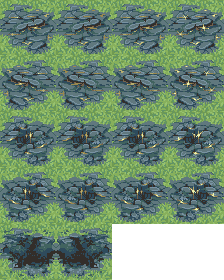
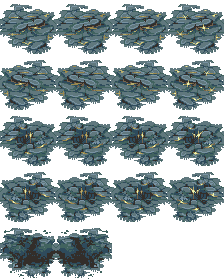
Updated Textures & Added Tiles

diff --git a/engine/resources/texture/texture.js b/engine/resources/texture/texture.js
@@ -7,6 +7,8 @@ export const Texture = function(id, name, path) {
     this.path = path;
     this.width = 0;
     this.height = 0;
+    this.gridWidth = 0;
+    this.gridHeight = 0;
     this.handle = new TextureHandle();
     this.variants = new Map();
     this.regionMap = new Map();
@@ -116,34 +118,51 @@ Texture.prototype.createHandle = function(handleID) {
     return nextHandle;
 }
 
-Texture.prototype.initGrid = function(grid, width, height) {
+Texture.prototype.initGrid = function(grid, gridWidth, gridHeight) {
     for(const regionID in grid) {
-        const { u, v } = grid[regionID];
-        const region = new TextureRegion(u * width, v * height, width, height);
+        const { u = 0, v = 0, h = 0 } = grid[regionID];
+        let regionX = u * gridWidth;
+        let regionY = v * gridHeight;
+        let regionHeight = gridHeight;
+        let offsetY = 0;
+
+        //Custom height. Move one cell down and subtract the height. 
+        if(h !== 0) {
+            regionY += gridHeight - h;
+            regionHeight = h;
+            offsetY = gridHeight - h;
+        }
+
+        const region = new TextureRegion(regionX, regionY, gridWidth, regionHeight);
+
+        region.offsetX = 0;
+        region.offsetY = offsetY;
 
         this.regions.push(region);
         this.regionMap.set(regionID, this.regions.length - 1);
     }
 }
 
-Texture.prototype.initRegions = function(regions) {
+Texture.prototype.initRegions = function(regions, gridWidth, gridHeight) {
     for(const regionID in regions) {
-        const { x = 0, y = 0, w = 0, h = 0 } = regions[regionID];
-        const region = new TextureRegion(x, y, w, h);
-
-        this.regions.push(region);
-        this.regionMap.set(regionID, this.regions.length - 1);
+        if(!this.regionMap.has(regionID)) {
+            const { x = 0, y = 0, w = 0, h = 0 } = regions[regionID];
+            const region = new TextureRegion(x, y, w, h);
+    
+            this.regions.push(region);
+            this.regionMap.set(regionID, this.regions.length - 1);
+        }
     }
 }
 
-Texture.prototype.autoGrid = function(startX, startY, rows, columns, firstID, width, height) {
+Texture.prototype.autoGrid = function(startX, startY, rows, columns, firstID, gridWidth, gridHeight) {
     let id = firstID;
 
     for(let i = 0; i < rows; i++) {
         for(let j = 0; j < columns; j++) {
-            const regionX = startX + j * width;
-            const regionY = startY + i * height;
-            const region = new TextureRegion(regionX, regionY, width, height);
+            const regionX = startX + j * gridWidth;
+            const regionY = startY + i * gridHeight;
+            const region = new TextureRegion(regionX, regionY, gridWidth, gridHeight);
             const regionID = (id++) + "";
 
             this.regions.push(region);

diff --git a/engine/tile/visual.js b/engine/tile/visual.js
@@ -69,23 +69,21 @@ TileVisual.prototype.pushElement = function(fp, x, y, w, h, ox, oy) {
     return next_frame_ptr;
 }
 
-TileVisual.prototype.createFrame = function(fp, region, offset) {
-    const { x, y, w, h } = region;
-    const offsetX = offset?.x ?? 0;
-    const offsetY = offset?.y ?? 0;
+TileVisual.prototype.createFrame = function(fp, region) {
+    const { x, y, w, h, offsetX, offsetY } = region;
     const next_frame_ptr = this.pushElement(fp, x, y, w, h, offsetX, offsetY);
 
     return next_frame_ptr;
 }
 
-TileVisual.prototype.createPattern = function(fp, texture, pattern, offsets) {
+TileVisual.prototype.createPattern = function(fp, texture, pattern) {
     let next_frame_ptr = fp;
 
     for(const { id, shiftX = 0, shiftY = 0 } of pattern) {
         const region = texture.getRegionByName(id);
 
         if(region) {
-            next_frame_ptr = this.createFrame(fp, region, offsets[id]);
+            next_frame_ptr = this.createFrame(fp, region);
 
             //Updates the offset of the last element.
             this.frameData[next_frame_ptr - TILE_FRAME_SIZE + 5] += shiftX;
@@ -97,21 +95,21 @@ TileVisual.prototype.createPattern = function(fp, texture, pattern, offsets) {
 }
 
 TileVisual.prototype.generate = function(texture, config, regionID) {
-    const { offsets = {}, patterns = {}, animations = {} } = config;
+    const { patterns = {}, animations = {} } = config;
     const frameData = texture.getRegionByName(regionID);
     const patternData = patterns[regionID];
     const animationData = animations[regionID];
     let fp = 0;
 
     if(frameData) {
-        this.createFrame(fp, frameData, offsets[regionID]);
+        this.createFrame(fp, frameData);
         this.frameCount++;
         this.setFrameTime(TileVisual.DEFAULT.FRAME_TIME);
         return;
     }
 
     if(patternData) {
-        this.createPattern(fp, texture, patternData, offsets);
+        this.createPattern(fp, texture, patternData);
         this.frameCount++;
         this.setFrameTime(TileVisual.DEFAULT.FRAME_TIME);
         return;
@@ -126,9 +124,9 @@ TileVisual.prototype.generate = function(texture, config, regionID) {
             let next_frame_ptr = fp;
 
             if(region) {
-                next_frame_ptr = this.createFrame(fp, region, offsets[frameID]);
+                next_frame_ptr = this.createFrame(fp, region);
             } else if(patterns[frameID]) {
-                next_frame_ptr = this.createPattern(fp, texture, patterns[frameID], offsets);
+                next_frame_ptr = this.createPattern(fp, texture, patterns[frameID]);
             }
 
             //A frame was created if the pointers do not match!

diff --git a/engine/resources/texture/textureRegistry.js b/engine/resources/texture/textureRegistry.js
@@ -64,8 +64,10 @@ TextureRegistry.prototype.createTextures = function(type, textures) {
             const { startX = 0, startY = 0, rows = 0, columns = 0, first = 1 } = autoGrid;
 
             texture.autoGrid(startX, startY, rows, columns, first, gridWidth, gridHeight);
-        } else if(regions) {
-            texture.initRegions(regions);
+        }
+        
+        if(regions) {
+            texture.initRegions(regions, gridWidth, gridHeight);
         }
 
         this.textures.push(texture);

diff --git a/src/states/mapEditor/tools/tileTool.js b/src/states/mapEditor/tools/tileTool.js
@@ -101,7 +101,8 @@ TileTool.prototype.init = function() {
     const seaSet = new BrushSet("MAP_EDITOR_SET_NAME_SEA", TileManager.TILE_ID.INVALID);
     const railSet = new BrushSet("MAP_EDITOR_SET_NAME_RAIL", TileManager.TILE_ID.INVALID);
 
-    for(let i = TILE_ID.GRASS; i < TILE_ID._COUNT; i++) {
+    //TODO(neyn): Update count!
+    for(let i = TILE_ID.GRASS; i < TILE_ID._COUNT + 100; i++) {
         allSet.addValue(i);
     }
 

diff --git a/engine/resources/texture/region.js b/engine/resources/texture/region.js
@@ -3,6 +3,8 @@ export const TextureRegion = function(x, y, w, h) {
     this.y = y;
     this.w = w;
     this.h = h;
+    this.offsetX = 0;
+    this.offsetY = 0;
 }
 
 TextureRegion.prototype.copy = function(region) {
@@ -10,4 +12,6 @@ TextureRegion.prototype.copy = function(region) {
     this.y = region.y;
     this.w = region.w;
     this.h = region.h;
+    this.offsetX = region.offsetX;
+    this.offsetY = region.offsetY;
 }

diff --git a/src/enums.js b/src/enums.js
@@ -310,7 +310,10 @@ export const TILE_TYPE = {
     PATH: 17,
     RAIL: 18,
     WASTELAND: 19,
-    _COUNT: 20
+    FOREST: 20,
+    HILL: 21,
+    MOUNTAIN: 22,
+    _COUNT: 23
 };
 
 export const TRAIT_TYPE = {
